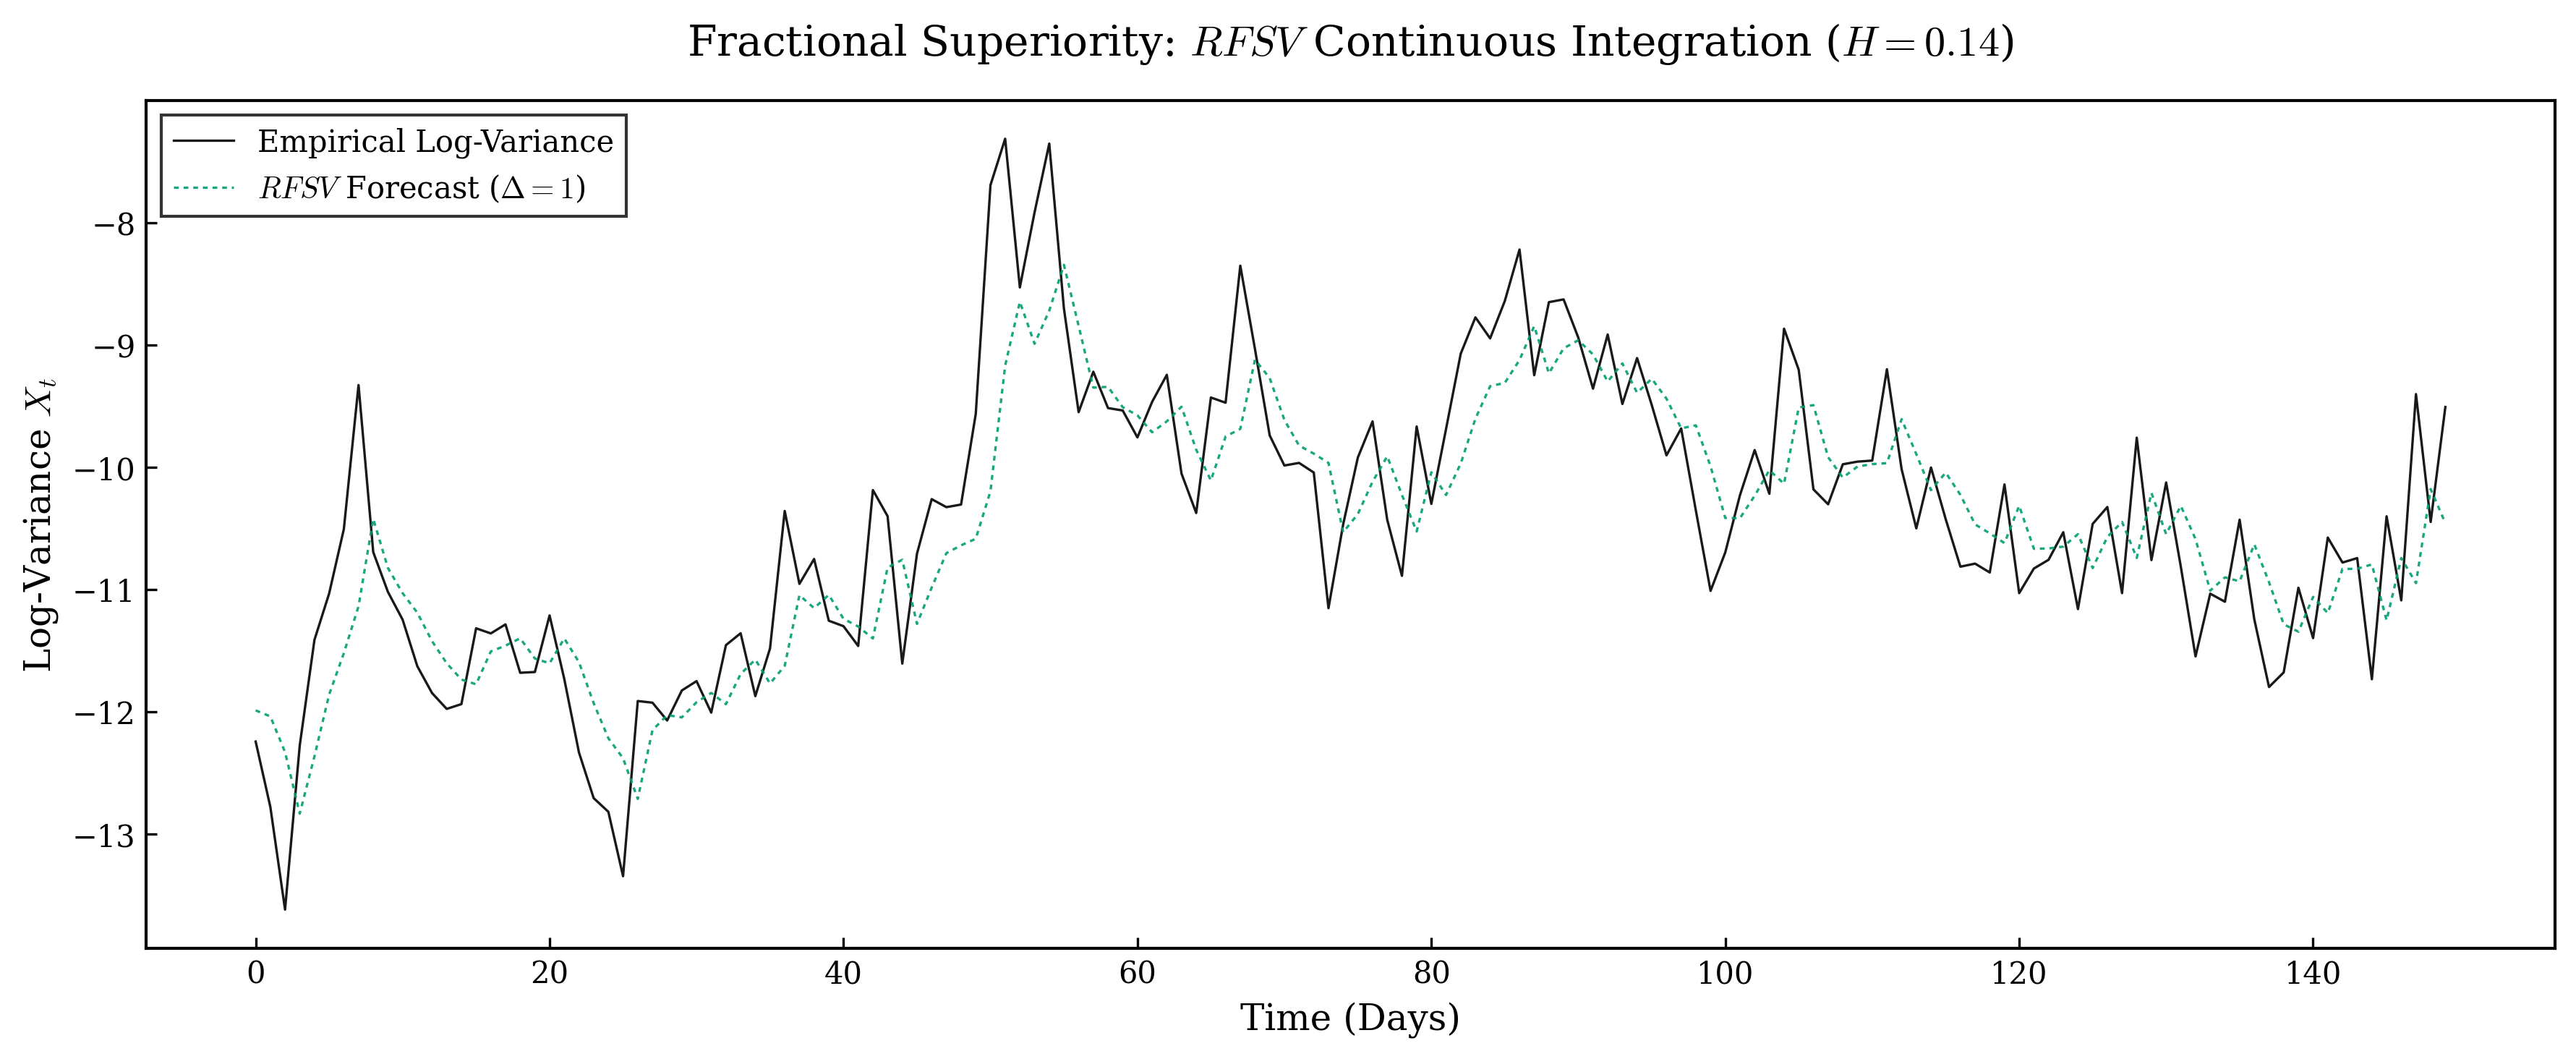
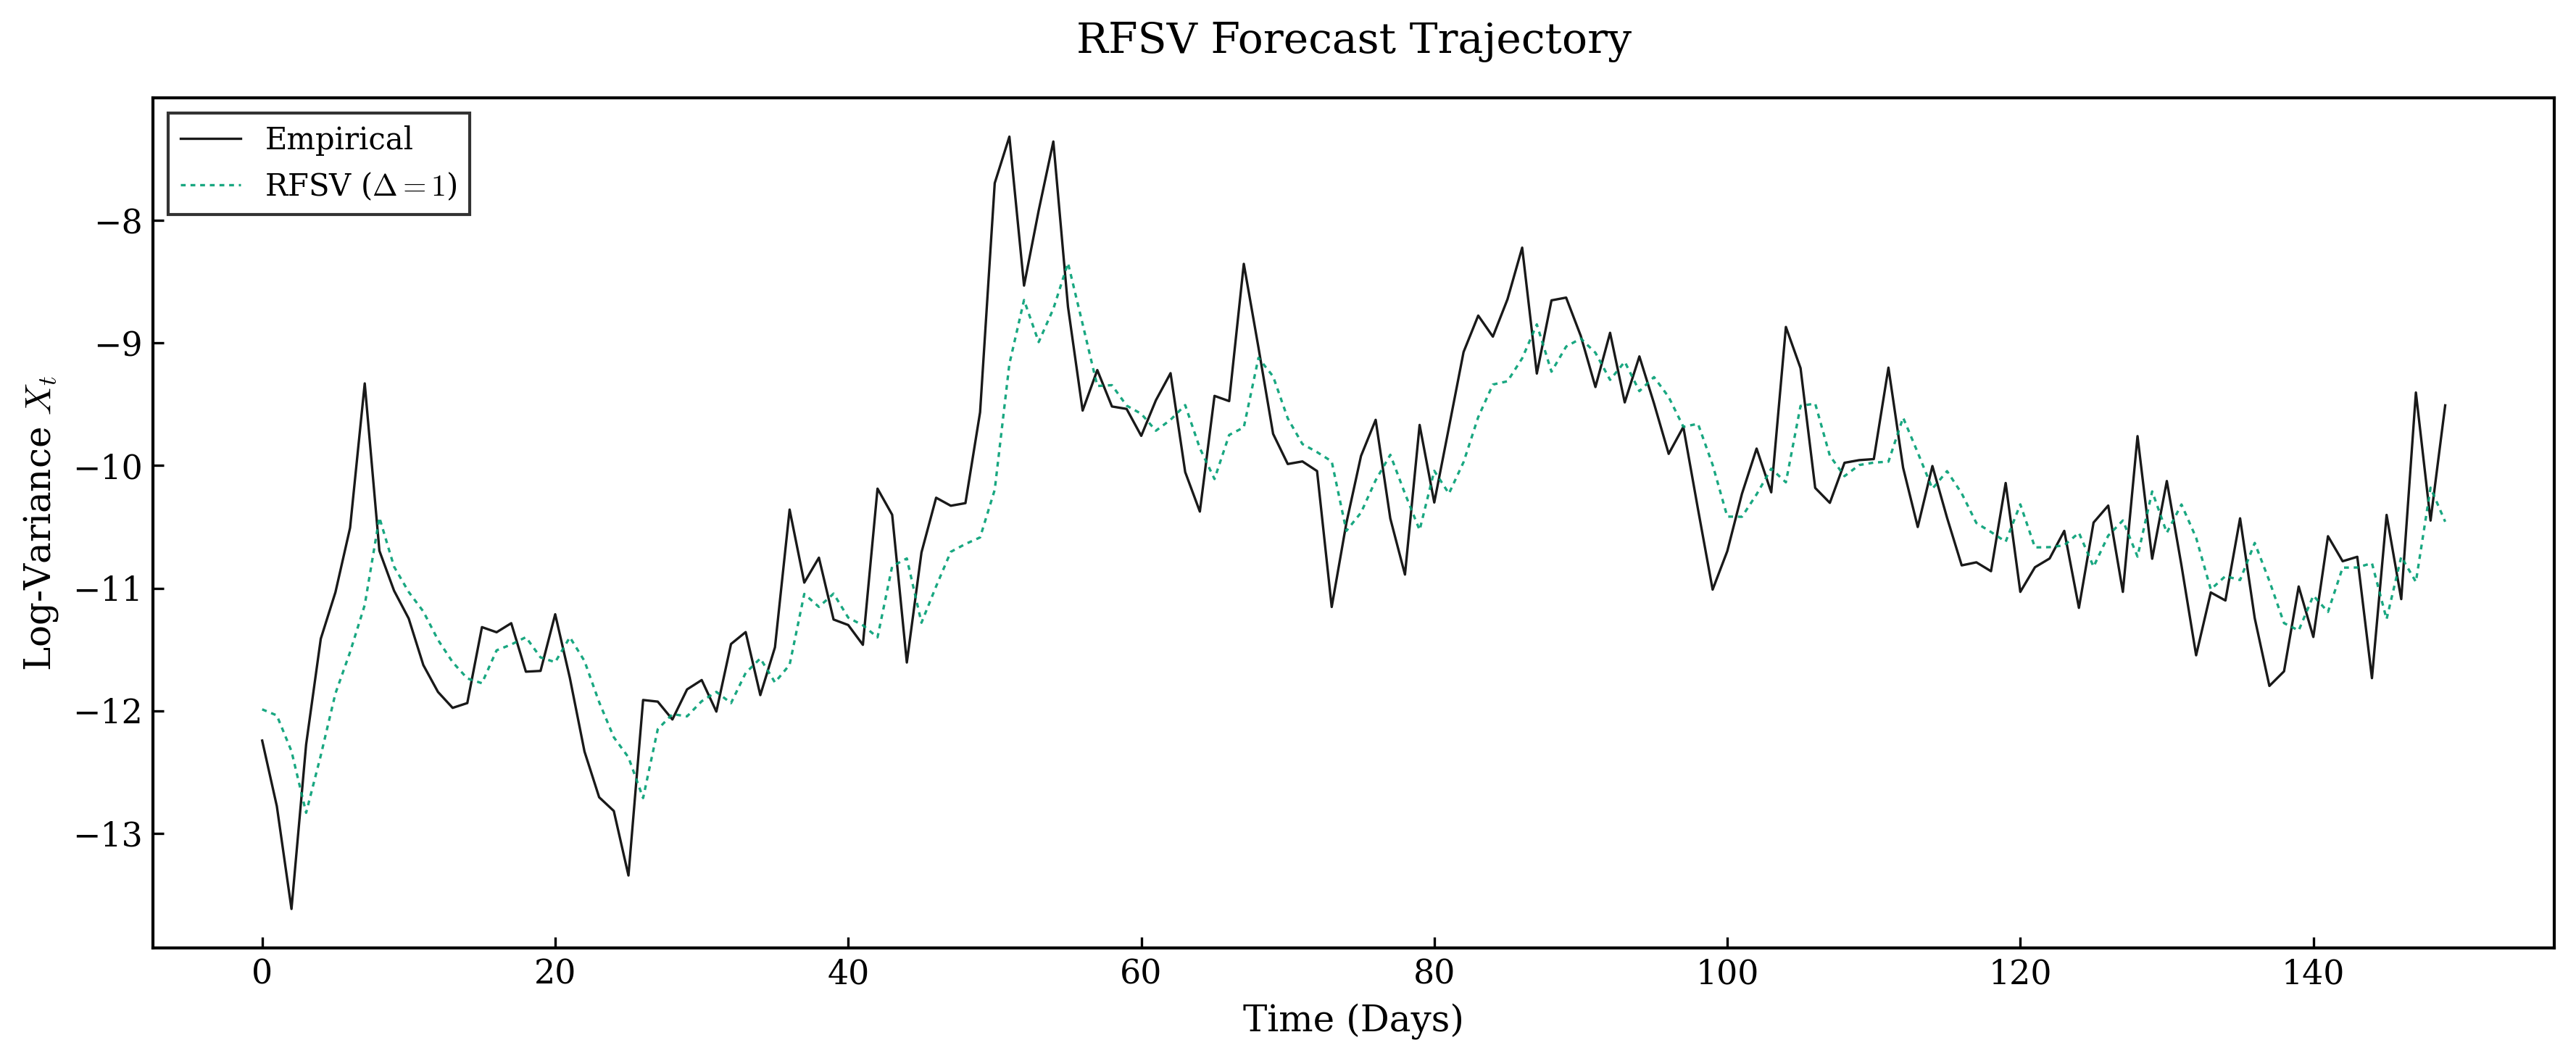
add new files

diff --git a/src/rfsv_forecasting.py b/src/rfsv_forecasting.py
@@ -16,7 +16,6 @@ def execute_apex_rfsv_matrix():
     X = df.get_column("Log_Variance").to_numpy()
     N = len(X)
     
-    # UNLOCKED: allow_pickle=True permits loading custom Python dictionaries from the archive
     ar_archive = np.load(ar_path, allow_pickle=True)
     har_archive = np.load(har_path, allow_pickle=True)
     
@@ -27,9 +26,10 @@ def execute_apex_rfsv_matrix():
     global_mean = np.mean(X)
     
     rfsv_archive = {}
+    table_data = []
 
     print("\n" + "="*80)
-    print("PHASE 3: RFSV RIEMANN INTEGRAL FORECAST (OUT-OF-SAMPLE)")
+    print("PHASE 3: RFSV RIEMANN INTEGRAL FORECAST")
     print("="*80)
     
     # 3. Deterministic Fractional Integration
@@ -37,27 +37,21 @@ def execute_apex_rfsv_matrix():
         forecasts = []
         actuals = []
         
-        # Strict alignment with the HAR maximum lag index to ensure 1:1 residual comparison
         max_lag_har = 19
         start_idx = rolling_window + max_lag_har + delta
         
         for t in range(start_idx, N - delta):
-            # Extract the trailing 500-day history relative to present time t
             history = np.zeros(rolling_window)
             for k_idx in range(rolling_window):
                 history[k_idx] = X[t - k_idx] 
                 
-            # Riemann sum approximation via midpoint rule to neutralize the u=0 singularity
             k = np.arange(1, rolling_window + 1)
             u = (k - 0.5) / delta
             
             # The core RFSV weighting equation
             weights = (np.cos(H * np.pi) / np.pi) * (1.0 / ((u + 1.0) * (u ** (H + 0.5)))) * (1.0 / delta)
-            
-            # Strict normalization to account for the finite 500-day truncation
             weights /= np.sum(weights)
             
-            # Deterministic forecast execution (No OLS required)
             rfsv_forecast = np.sum(weights * history)
             
             forecasts.append(rfsv_forecast)
@@ -65,25 +59,16 @@ def execute_apex_rfsv_matrix():
             
         forecasts = np.array(forecasts)
         actuals = np.array(actuals)
-        residuals = actuals - forecasts
         
-        mse = np.sum(residuals**2)
+        mse = np.sum((actuals - forecasts)**2)
         variance_total = np.sum((actuals - global_mean)**2)
         p_ratio = mse / variance_total
         
-        identifier = f"RFSV_D_{delta}"
-        rfsv_archive[identifier] = p_ratio
+        rfsv_archive[f"RFSV_D_{delta}"] = p_ratio
         
-        print(f"RFSV Integral | Horizon: {delta:02d} Day | Out-of-Sample P-Ratio: {p_ratio:.3f}")
+        print(f"RFSV Integral | Horizon: {delta:02d} | P-Ratio: {p_ratio:.3f}")
 
-    print("\n" + "="*80)
-    print("FINAL BENCHMARK COMPARISON MATRIX (OUT-OF-SAMPLE P-RATIOS)")
-    print("="*80)
-    print(f"{'Horizon':<12} | {'AR(5)':<12} | {'AR(10)':<12} | {'HAR(3)':<12} | {'RFSV (Apex)':<12}")
-    print("-" * 80)
-    
-    for delta in horizons:
-        # UNLOCKED: .item() unwraps the 0-d object array back into a readable Python dictionary
+        # Extract matching baseline P-ratios
         ar5_res = ar_archive[f'AR_5_D_{delta}'].item()
         ar5_p = np.sum((ar5_res['actuals'] - ar5_res['forecasts'])**2) / np.sum((ar5_res['actuals'] - global_mean)**2)
         
@@ -93,33 +78,82 @@ def execute_apex_rfsv_matrix():
         har_res = har_archive[f'HAR_3_D_{delta}'].item()
         har_p = np.sum((har_res['actuals'] - har_res['forecasts'])**2) / np.sum((har_res['actuals'] - global_mean)**2)
         
-        rfsv_p = rfsv_archive[f'RFSV_D_{delta}']
-        
-        print(f"Delta = {delta:<5d} | {ar5_p:<12.3f} | {ar10_p:<12.3f} | {har_p:<12.3f} | {rfsv_p:<12.3f}")
-    
+        table_data.append([
+            f"$\\Delta = {delta}$", 
+            f"{ar5_p:.3f}", 
+            f"{ar10_p:.3f}", 
+            f"{har_p:.3f}", 
+            f"{p_ratio:.3f}"
+        ])
+
+    print("\n" + "="*80)
+    print("P-RATIO COMPARISON MATRIX")
+    print("="*80)
+    print(f"{'Horizon':<12} | {'AR(5)':<12} | {'AR(10)':<12} | {'HAR(3)':<12} | {'RFSV':<12}")
+    print("-" * 80)
+    for row in table_data:
+        term_delta = row[0].replace('$\\Delta = ', '').replace('$', '')
+        print(f"Delta = {term_delta:<5} | {row[1]:<12} | {row[2]:<12} | {row[3]:<12} | {row[4]:<12}")
     print("="*80 + "\n")
 
     # 4. Superior Visual Architecture
     plt.rcParams.update({
         "font.family": "serif",
         "mathtext.fontset": "cm",
-        "axes.facecolor": "white",
         "figure.facecolor": "white",
+        "axes.facecolor": "white",
         "axes.edgecolor": "black",
         "axes.linewidth": 1.0,
         "xtick.direction": "in",
         "ytick.direction": "in",
-        "lines.linewidth": 0.8
+        "lines.linewidth": 0.8,
+        "font.size": 11
     })
 
-    plt.figure(figsize=(12, 5))
+    # --- Subplot 1: The P-Ratio Benchmark Table ---
+    fig1, ax1 = plt.subplots(figsize=(8, 2.5))
+    ax1.axis('tight')
+    ax1.axis('off')
+    
+    col_labels = ['Horizon', 'AR(5)', 'AR(10)', 'HAR(3)', 'RFSV']
+    
+    table = ax1.table(
+        cellText=table_data, 
+        colLabels=col_labels, 
+        loc='center', 
+        cellLoc='center'
+    )
+    
+    table.auto_set_font_size(False)
+    table.set_fontsize(12)
+    table.scale(1, 2)
+
+    for (row, col), cell in table.get_celld().items():
+        cell.set_edgecolor('black')
+        cell.set_linewidth(0)
+        cell.set_facecolor('white')
+        cell.set_text_props(weight='normal', color='black')
+        
+        # Horizontal rules for structure
+        if row == 0 or row == len(table_data):
+            cell.visible_edges = 'B'
+            cell.set_linewidth(1.0)
+            
+        # Strict typographic isolation of the RFSV numerical advantage
+        if col == 4 and row > 0:
+            cell.set_text_props(weight='bold', color='#009E73')
+
+    plt.title(r"P-Ratio Evaluation", fontsize=14, pad=15)
+    plt.tight_layout()
+    plt.savefig("data/SPX_Benchmark_Comparison_Table.png", dpi=300, bbox_inches='tight')
+    plt.close(fig1)
+
+    # --- Subplot 2: The Forecasting Trajectory Graph ---
+    fig2, ax2 = plt.subplots(figsize=(12, 5))
     
     plot_window = 150
-    # Aligning the RFSV actuals with the HAR array length for identical visualization mapping
-    # UNLOCKED: Applied .item() here as well
     display_actual = har_archive['HAR_3_D_1'].item()['actuals'][-plot_window:]
     
-    # We must quickly recalculate D=1 for the graph specifically to extract the array, as the loop overwrote 'forecasts'
     temp_forecasts = []
     delta_vis = 1
     start_idx_vis = rolling_window + max_lag_har + delta_vis
@@ -134,15 +168,15 @@ def execute_apex_rfsv_matrix():
     display_rfsv = temp_forecasts[-plot_window:]
     time_axis = np.arange(plot_window)
 
-    plt.plot(time_axis, display_actual, color='#000000', label='Empirical Log-Variance', alpha=0.9)
-    plt.plot(time_axis, display_rfsv, color='#009E73', label=r'$RFSV$ Forecast ($\Delta=1$)', linestyle=(0, (2, 2)), alpha=0.9)
+    ax2.plot(time_axis, display_actual, color='#000000', label='Empirical', alpha=0.9)
+    ax2.plot(time_axis, display_rfsv, color='#009E73', label=r'RFSV ($\Delta=1$)', linestyle=(0, (2, 2)), alpha=0.9)
 
-    plt.title(r"Fractional Superiority: $RFSV$ Continuous Integration ($H=0.14$)", fontsize=14, pad=15)
-    plt.xlabel("Time (Days)", fontsize=12)
-    plt.ylabel(r"Log-Variance $X_t$", fontsize=12)
-    plt.legend(fontsize=10, frameon=True, edgecolor='black', fancybox=False, loc='upper left')
-    plt.grid(False)
-    plt.tight_layout()
+    ax2.set_title(r"RFSV Forecast Trajectory", fontsize=14, pad=15)
+    ax2.set_xlabel("Time (Days)", fontsize=12)
+    ax2.set_ylabel(r"Log-Variance $X_t$", fontsize=12)
+    ax2.legend(fontsize=10, frameon=True, edgecolor='black', fancybox=False, loc='upper left')
+    ax2.grid(False)
+    fig2.tight_layout()
     
     plt.savefig("data/SPX_RFSV_Forecast.png", dpi=300, bbox_inches='tight')
     plt.show()